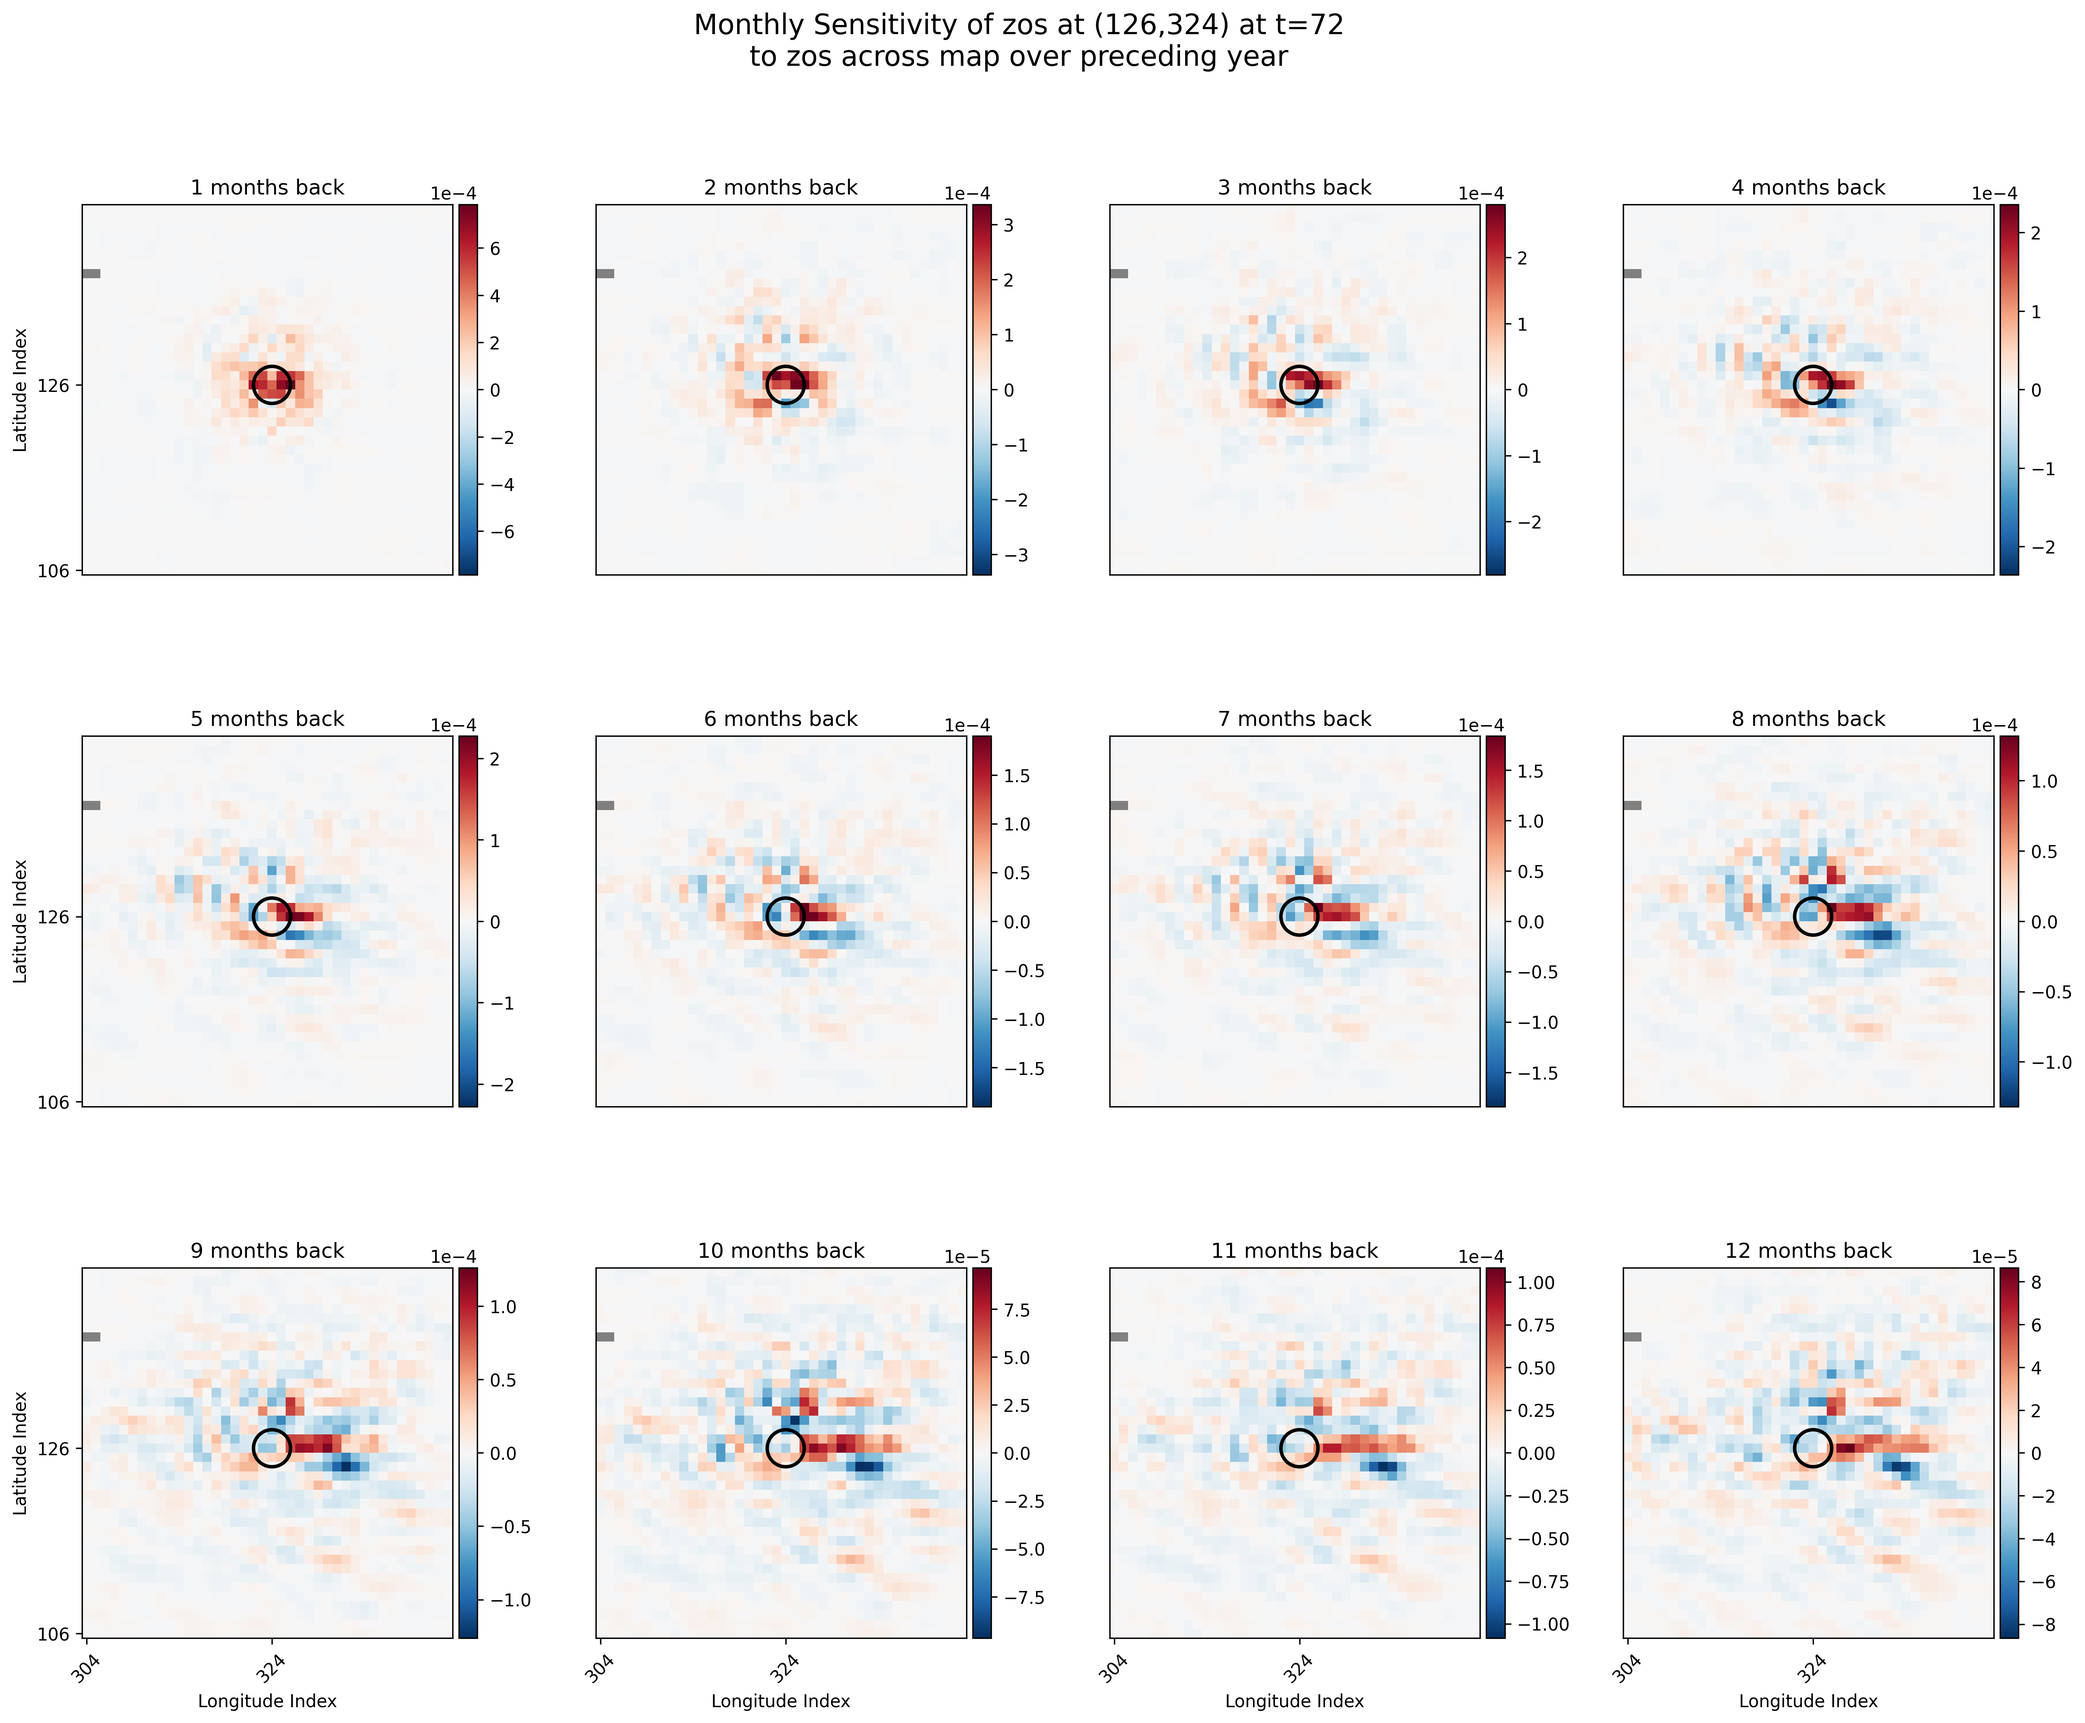
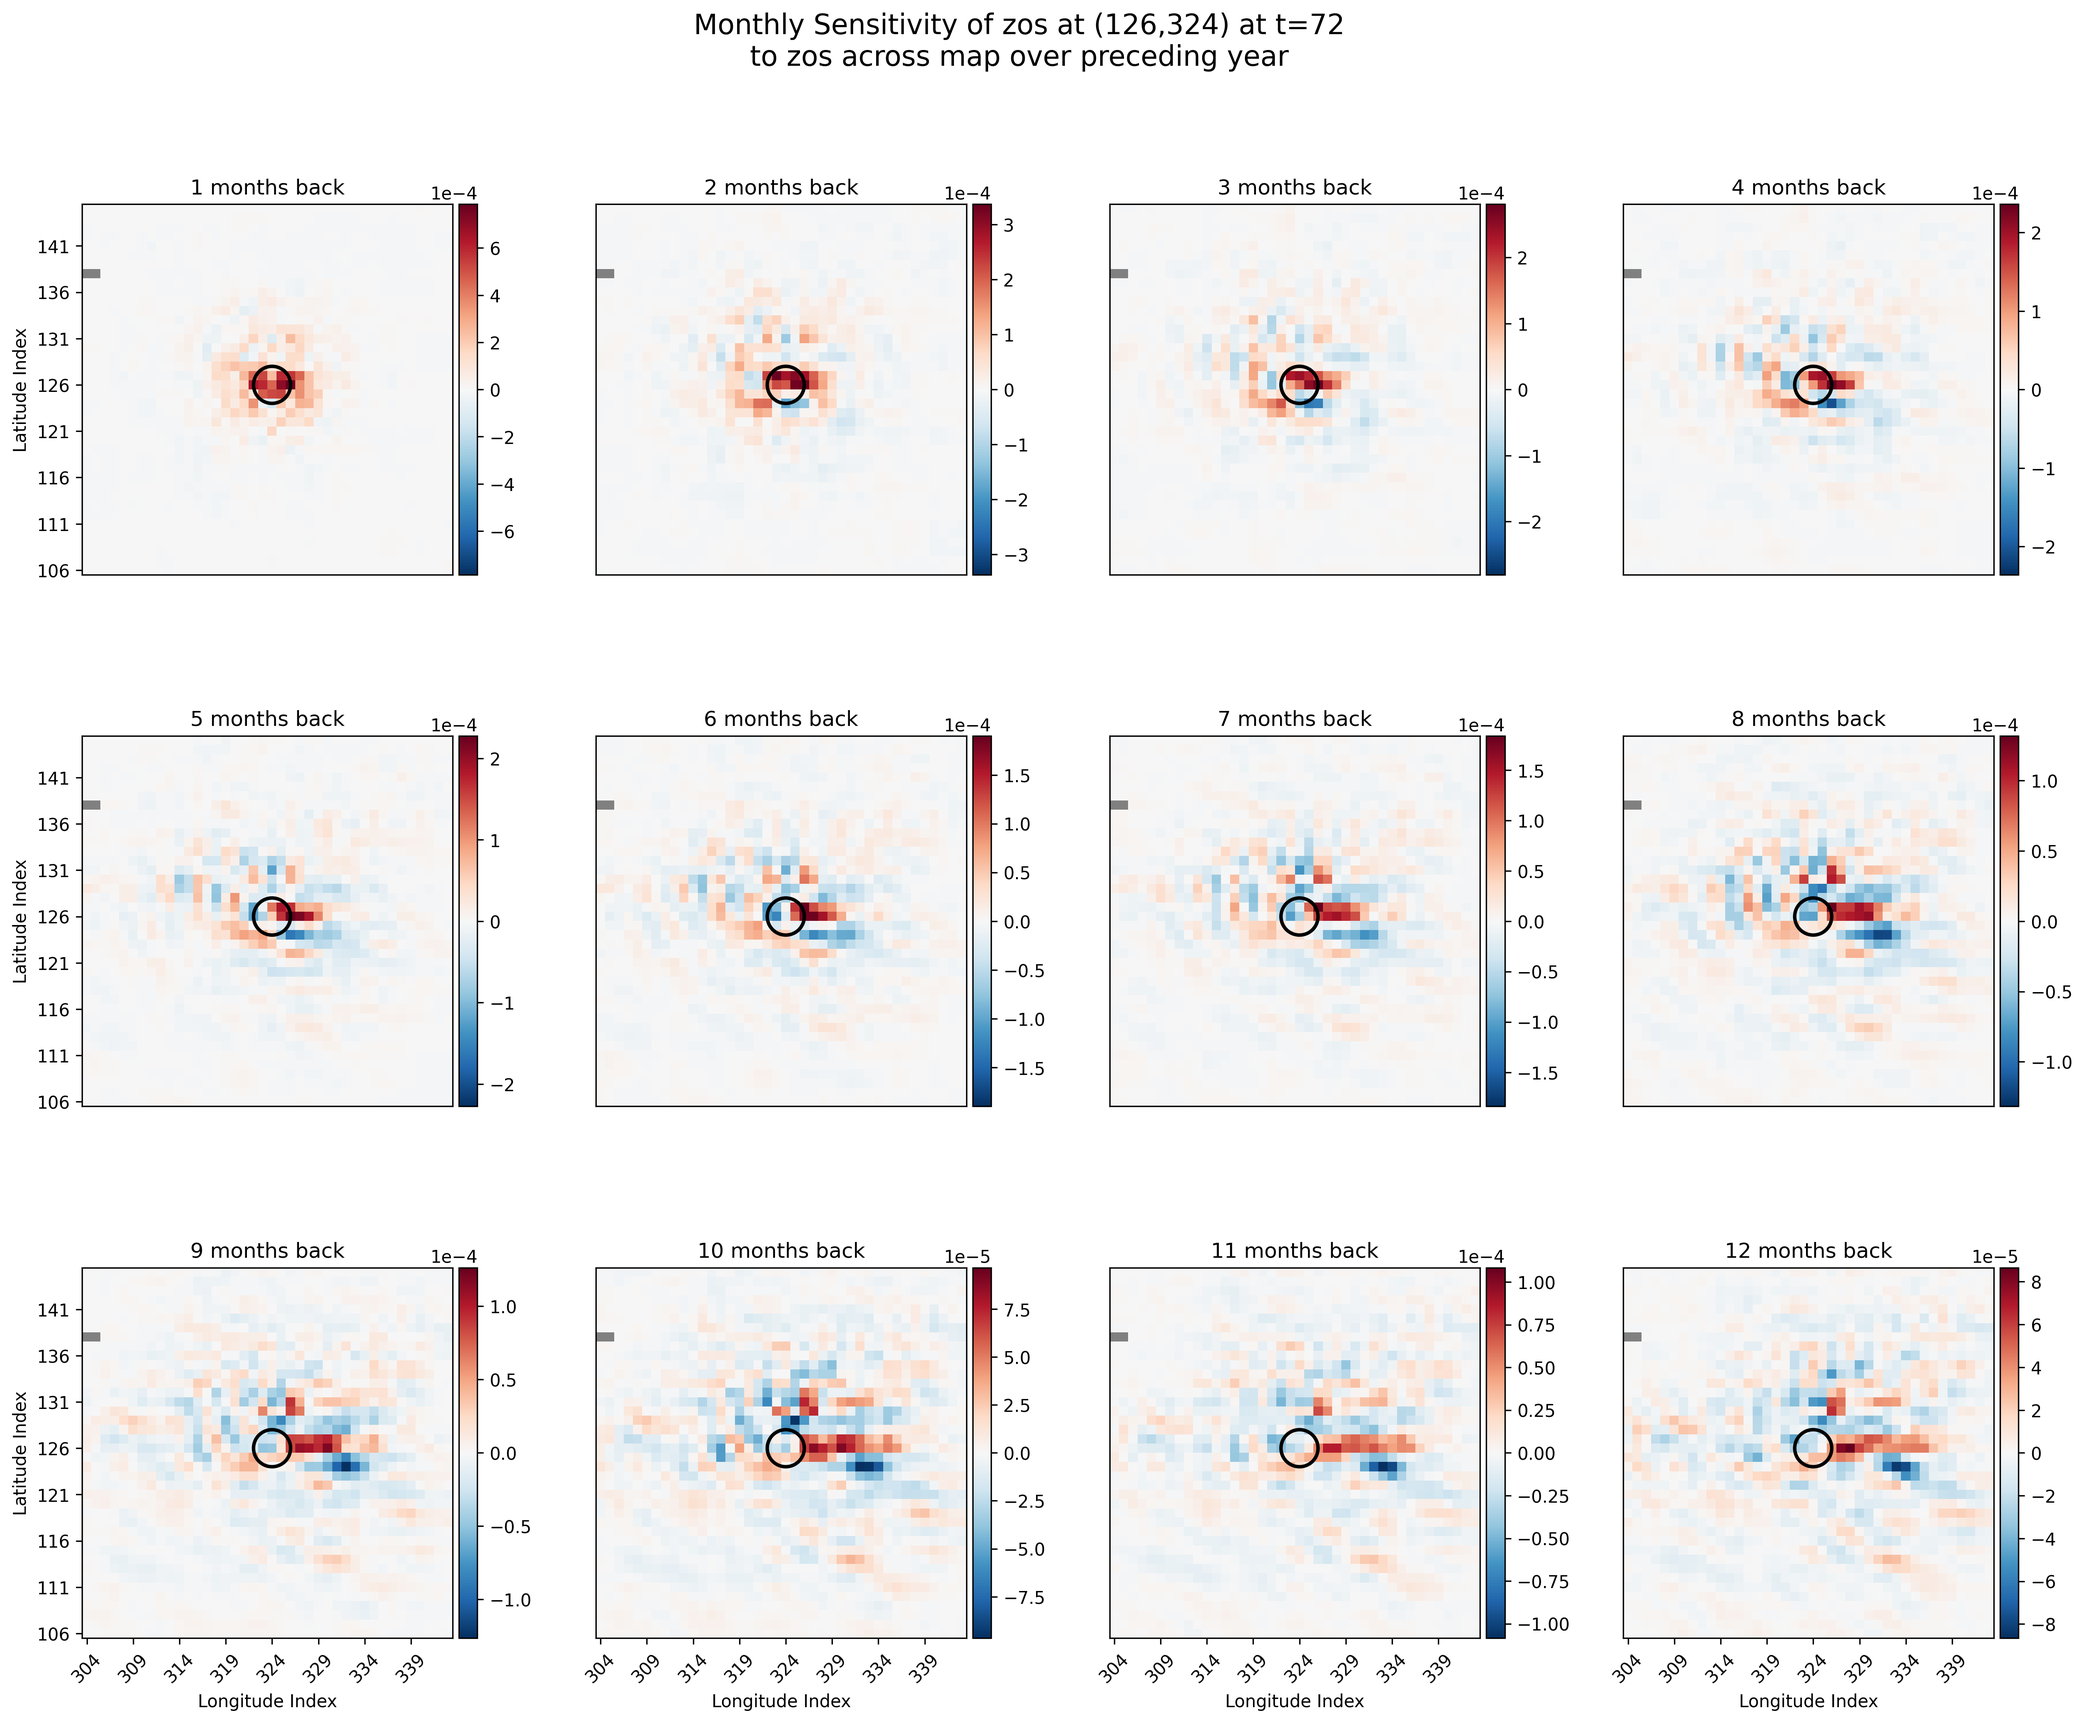
Testing (90,180) again, just to make sure

diff --git a/Samudra_Testing/plot_monthly_sensitivities.py b/Samudra_Testing/plot_monthly_sensitivities.py
@@ -113,8 +113,8 @@ def plot_sensitivity_monthly(t_months, t_end, map_dims, output_pixel, var_in, va
     y_pos = np.arange(sample_sensitivity.shape[0])
     
     # Calculate tick positions and labels
-    xticks = 20
-    yticks = 20
+    xticks = 5
+    yticks = 5
     
     x_tick_pos = x_pos[::xticks]
     x_tick_labs = col_indices[::xticks]
@@ -240,18 +240,22 @@ if __name__ == "__main__":
         }
     
     # Choose variables to plot
+
+    vars_in = ['hfds', 'hfds_anomalies', 'zos(even)', 'tauuo', 'tauvo']
     #var_in = 'hfds'  # Input variable
     #var_in = 'hfds_anomalies'  # Input variable
     #var_in = 'zos(even)'
     #var_in = 'tauuo'  # Input variable
-    var_in = 'tauvo'  # Input variable
+    #var_in = 'tauvo'  # Input variable
     var_out = 'zos(even)'  # Output variable
     
-    # Get channel numbers from dictionary
-    ch_in = var_dict[var_in]
-    ch_out = var_dict[var_out]
-    folder = 'adjoint_arrays/North_Atlantic'#'
+    for var_in in vars_in:
+        
+        # Get channel numbers from dictionary
+        ch_in = var_dict[var_in]
+        ch_out = var_dict[var_out]
+        folder = 'adjoint_arrays/North_Atlantic'#'
 
-    # Create the monthly sensitivity grid plot
-    plot_sensitivity_monthly(t_months, t_end, map_dims, output_pixel, 
-                           var_in, var_out, ch_in, ch_out, folder=folder)
+        # Create the monthly sensitivity grid plot
+        plot_sensitivity_monthly(t_months, t_end, map_dims, output_pixel, 
+                            var_in, var_out, ch_in, ch_out, folder=folder)

diff --git a/Samudra_Testing/samudra_adjoint.py b/Samudra_Testing/samudra_adjoint.py
@@ -39,8 +39,8 @@ t_months = [t_end - 6*i for i in range(1,13)]  # Months in a year
 in_times = t_months #[0,2,4,6,8]# #[t_2year, t_1year, t_6months, t_1month] #[0] # Times to compute sensitivity wrt to
 
 # (126, 324) is the point in the middle of the North Atlantic Ocean
-final_lat = 126
-final_lon = 324
+# (90, 180) is the point at the Equatorial Pacific Ocean
+final_lat, final_lon = 90, 180
 initial_channels = [76,153,154,155,156,157]  #[76]  # Channels to compute sensitivity for
 final_channel = 76
 
